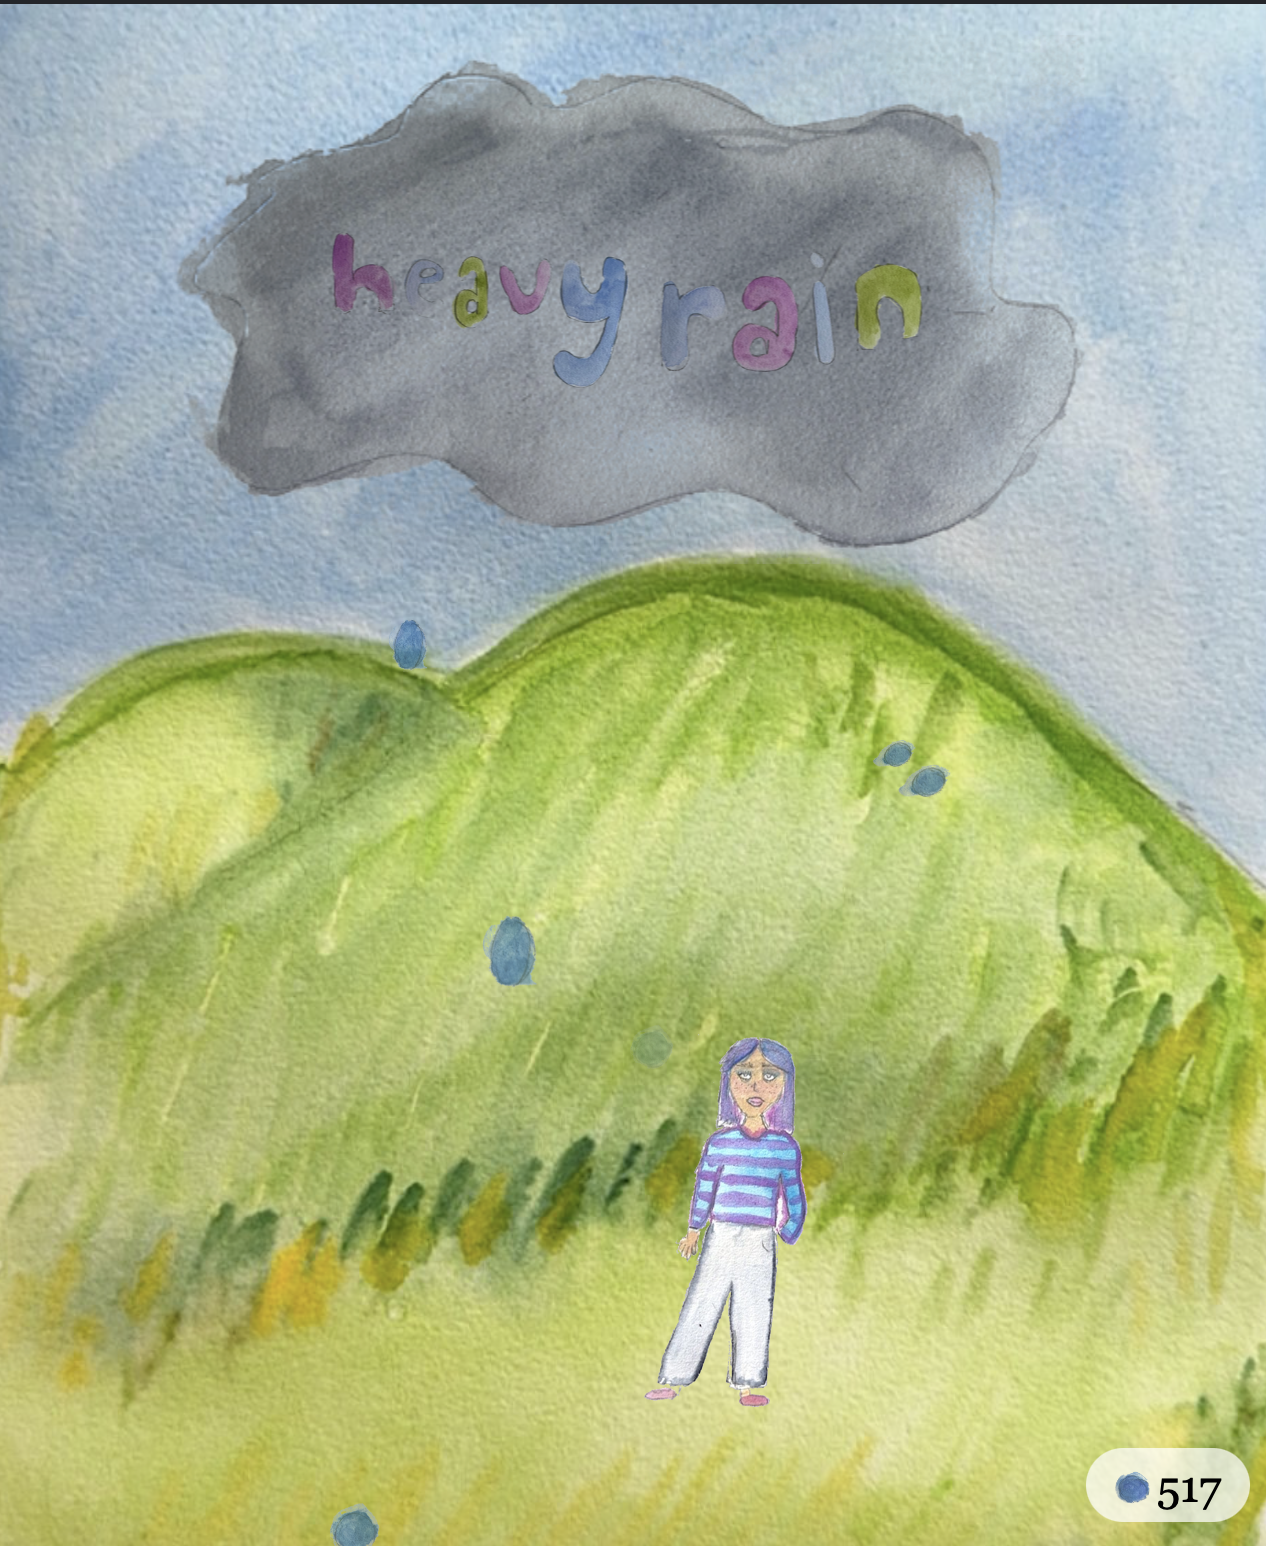
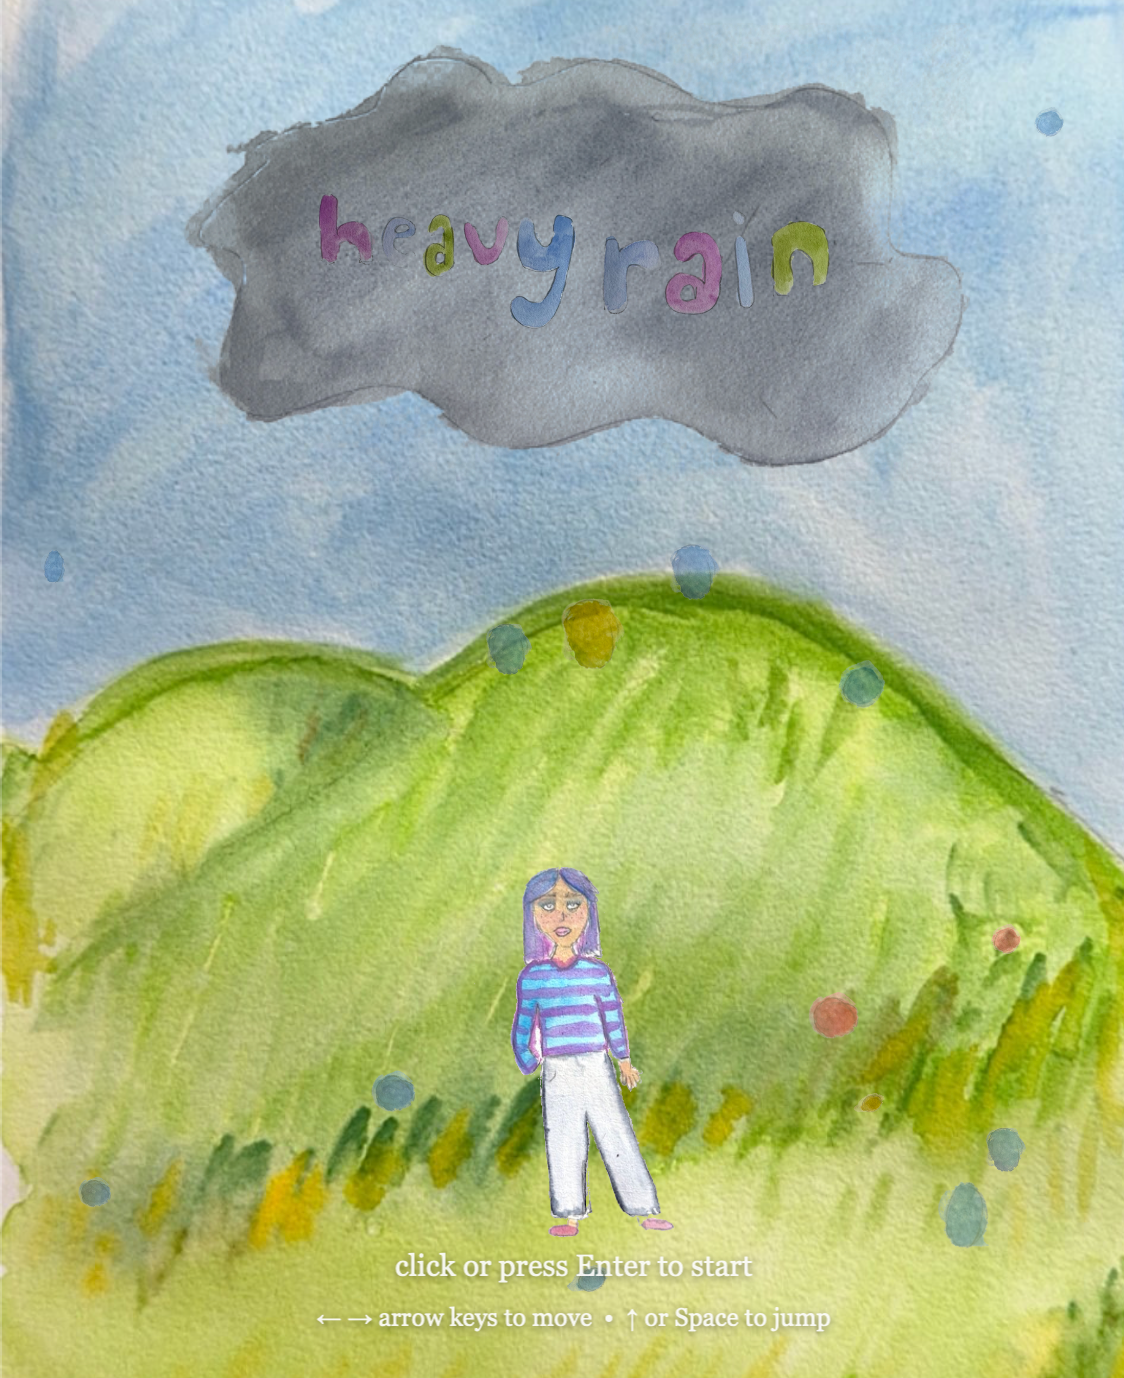
Canvas rain, gold/pink collectibles, performance fix, pink score counter, updated screenshot

diff --git a/heavyrain.html b/heavyrain.html
@@ -14,6 +14,7 @@ img { -webkit-touch-callout: none; pointer-events: none; }
 #title { position: absolute; top: 52%; left: 50%; transform: translate(-50%, -50%); display: flex; flex-direction: row; align-items: center; gap: 2vw; white-space: nowrap; transition: opacity 0.4s ease; }
 #character { position: fixed; width: 100px; height: auto; transform-origin: bottom center; }
 
+#scoreDropImg { filter: hue-rotate(120deg) saturate(1.4) brightness(1.05); }
 #score { position: fixed; bottom: 20px; right: 20px; z-index: 10; font-size: 22px; font-family: Georgia, serif; background: rgba(255,255,255,0.72); padding: 5px 14px; border-radius: 20px; display: none; align-items: center; gap: 6px; }
 #pauseBtn { position: fixed; bottom: 20px; left: 20px; z-index: 10; font-size: 18px; font-family: Georgia, serif; background: rgba(255,255,255,0.72); border: none; padding: 5px 14px; border-radius: 20px; cursor: pointer; display: none; align-items: center; box-shadow: none; }
 #lives { position: fixed; bottom: 20px; left: 70px; z-index: 10; display: none; flex-direction: row; align-items: center; gap: 5px; }
@@ -24,7 +25,6 @@ img { -webkit-touch-callout: none; pointer-events: none; }
 #gameOver p  { font-family: Georgia, serif; color: #fff; font-size: 22px; }
 #playAgain { margin-top: 28px; font-family: Georgia, serif; font-size: 18px; background: rgba(255,255,255,0.82); border: none; padding: 8px 28px; border-radius: 20px; cursor: pointer; }
 #hint { position: fixed; bottom: 105px; left: 50%; transform: translateX(-50%); z-index: 10; font-size: 15px; font-family: Georgia, serif; color: rgba(255,255,255,0.9); text-shadow: 0 1px 4px rgba(0,0,0,0.5); pointer-events: none; text-align: center; line-height: 1.7; white-space: nowrap; }
-#spotify { position: fixed; top: 10px; right: 10px; display: none; transition: all 0.6s ease; z-index: 10; border-radius: 12px; overflow: hidden; box-shadow: 0 4px 16px rgba(0,0,0,0.3); transition: opacity 0.5s; }
 </style>
 </head>
 <body>
@@ -53,9 +53,6 @@ img { -webkit-touch-callout: none; pointer-events: none; }
 <div id="flash"></div>
 <div id="gameOver"><h1>game over</h1><p id="finalScore"></p><p id="bestScore" style="font-size:16px;opacity:0.8;margin-top:4px;"></p><button id="playAgain">play again</button></div>
 <div id="score"><img src="" id="scoreDropImg" style="width:22px;height:auto;opacity:0.85;vertical-align:middle;"><span id="scoreNum" style="vertical-align:middle;">0</span></div>
-<div id="spotify">
-  <iframe id="spotifyFrame" src="https://open.spotify.com/embed/track/1RbQQWnEsE4RJUsIO7nFau?utm_source=generator&theme=1" width="280" height="80" frameborder="0" allowtransparency="true" allow="autoplay; clipboard-write; encrypted-media; fullscreen; picture-in-picture"></iframe>
-  <div style="text-align:center;padding:4px 0 2px;font-family:Georgia,serif;font-size:11px;"><a href="https://accounts.spotify.com/login" target="_blank" style="color:rgba(255,255,255,0.75);text-decoration:underline;">log in to spotify</a> for the full song</div>
 </div>
 <div id="hint"></div>
 
@@ -68,6 +65,7 @@ var charX = 50, charVelX = 0, facingRight = true;
 var pressedLeft = false, pressedRight = false;
 var CHAR_MAX = 0.65, CHAR_ACCEL = 0.07, CHAR_FRIC = 0.80;
 var velY = 0, offsetY = 0, isOnGround = true, jumpsLeft = 2, groundY = 0.84;
+var bgDrops = [], activeDrops = [];
 var GRAVITY = 0.6, JUMP_VEL = -14;
 
 function getGroundYPct(x) { return groundY - Math.sin((x / 100) * Math.PI) * 0.04; }
@@ -100,6 +98,7 @@ function loop() {
   }
   updateChar();
   if (gameActive) updateDrops();
+  updateBgRain();
   requestAnimationFrame(loop);
 }
 
@@ -137,7 +136,7 @@ document.addEventListener('pointerup',     function() { pressedLeft = false; pre
 document.addEventListener('pointercancel', function() { pressedLeft = false; pressedRight = false; });
 
 // --- Game ---
-var gameActive = false, gamePaused = false, gameScore = 0, lives = 3, activeDrops = [], gameStartTime = 0;
+var gameActive = false, gamePaused = false, gameScore = 0, lives = 3, gameStartTime = 0;
 var dropSrcs = [0,1,2,3,4].map(function(i) { return document.getElementById('drop'+i).src; });
 
 document.getElementById('pauseBtn').addEventListener('click', function(e) {
@@ -176,7 +175,6 @@ document.getElementById('playAgain').addEventListener('click', function(e) {
   document.getElementById('lives').style.display = 'none';
   gameActive = false;
   groundY = 0.84;
-  document.getElementById('spotify').style.display = 'none';
   gameScore = 0;
   document.getElementById('scoreNum').textContent = '0';
   activeDrops.forEach(function(d) { d.el.remove(); });
@@ -224,11 +222,6 @@ function startGame() {
   document.getElementById('scoreNum').textContent = '0';
   document.getElementById('gameOver').style.display = 'none';
   document.getElementById('pauseBtn').style.display = 'flex';
-  ambientActive = false;
-  var sp = document.getElementById('spotify');
-  sp.style.display = 'block';
-  var sf = document.getElementById('spotifyFrame');
-  sf.src = 'https://open.spotify.com/embed/track/1RbQQWnEsE4RJUsIO7nFau?utm_source=generator&theme=1&autoplay=1';
   fadeOutTitle();
   animateCloudToTop();
   spawnDrop();
@@ -244,20 +237,27 @@ function scheduleDrop() {
   setTimeout(function() { spawnDrop(); scheduleDrop(); }, base + Math.random() * jitter);
 }
 
+var COLLECT_TYPES = [
+  { filter: 'hue-rotate(190deg) saturate(1.5) brightness(1.15)' },
+  { filter: 'hue-rotate(120deg) saturate(1.4) brightness(1.05)' }
+];
+
 function spawnDrop() {
   var cr   = document.getElementById('cloud').getBoundingClientRect();
   var size = 22 + Math.floor(Math.random() * 16);
+  var sizeFactor = (size - 22) / 16;
+  var speedBoost = Math.min(gameScore * 0.03, 2.5);
+  var spd  = (3.2 - sizeFactor * 1.8) + speedBoost + Math.random() * 0.5;
   var x    = cr.left + cr.width * 0.15 + Math.random() * cr.width * 0.70;
   var y    = cr.bottom - 10;
-  var sizeFactor = (size - 22) / 16;                      // 0=smallest/fastest, 1=largest/slowest
-  var speedBoost = Math.min(gameScore * 0.03, 2.5);        // softer ramp than before
-  var spd = (3.2 - sizeFactor * 1.8) + speedBoost + Math.random() * 0.5;
+  var type = COLLECT_TYPES[Math.floor(Math.random() * COLLECT_TYPES.length)];
   var src  = dropSrcs[Math.floor(Math.random() * dropSrcs.length)];
   var el   = document.createElement('img');
   el.src   = src;
-  el.style.cssText = 'position:fixed;width:' + size + 'px;height:auto;' +
-                     'left:' + (x - size/2) + 'px;top:' + y + 'px;' +
-                     'pointer-events:none;z-index:5;opacity:0.72;';
+  el.style.cssText = 'position:fixed;width:' + size + 'px;height:auto;'
+    + 'left:' + (x - size/2) + 'px;top:' + y + 'px;'
+    + 'pointer-events:none;z-index:5;opacity:0.85;'
+    + 'filter:' + type.filter + ';';
   document.body.appendChild(el);
   activeDrops.push({ el:el, x:x, y:y, spd:spd, size:size });
 }
@@ -328,58 +328,65 @@ function spawnAmbientDrop() {
   setTimeout(spawnAmbientDrop, delay);
 });
 
-// Ambient rain audio (Web Audio API)
-var audioCtx = null, rainGain = null, rainSource = null;
+// Background rain — canvas-based for performance
+var bgCanvas = document.createElement('canvas');
+bgCanvas.style.cssText = 'position:fixed;inset:0;pointer-events:none;z-index:0;';
+document.body.appendChild(bgCanvas);
+var bgCtx = bgCanvas.getContext('2d');
 
-function startRainSound() {
-  try {
-    audioCtx = new (window.AudioContext || window.webkitAudioContext)();
+var dropImages = [0,1,2,3,4].map(function(i) { return document.getElementById('drop'+i); });
 
-    // White noise buffer (2s, looped)
-    var bufLen = audioCtx.sampleRate * 2;
-    var buf    = audioCtx.createBuffer(1, bufLen, audioCtx.sampleRate);
-    var data   = buf.getChannelData(0);
-    for (var i = 0; i < bufLen; i++) data[i] = Math.random() * 2 - 1;
+function resizeBgCanvas() {
+  bgCanvas.width  = window.innerWidth;
+  bgCanvas.height = window.innerHeight;
+}
+resizeBgCanvas();
+window.addEventListener('resize', resizeBgCanvas);
 
-    rainSource = audioCtx.createBufferSource();
-    rainSource.buffer = buf;
-    rainSource.loop   = true;
-
-    // Two filters layered: high-pass removes rumble, low-pass softens hiss
-    var hp = audioCtx.createBiquadFilter();
-    hp.type = 'highpass';  hp.frequency.value = 600;
-
-    var lp = audioCtx.createBiquadFilter();
-    lp.type = 'lowpass';   lp.frequency.value = 4000;
-
-    rainGain = audioCtx.createGain();
-    rainGain.gain.value = 0;
-
-    rainSource.connect(hp);
-    hp.connect(lp);
-    lp.connect(rainGain);
-    rainGain.connect(audioCtx.destination);
-
-    rainSource.start();
-    rainGain.gain.setTargetAtTime(0.12, audioCtx.currentTime, 1.2); // gentle fade-in
-  } catch(e) {}
+function spawnBgDrop() {
+  var size   = 12 + Math.floor(Math.random() * 22);
+  var roll   = Math.random();
+  var filter = !gameActive && roll < 0.1 ? 'hue-rotate(190deg) saturate(1.5) brightness(1.15)'
+             : !gameActive && roll < 0.2 ? 'hue-rotate(120deg) saturate(1.4) brightness(1.05)'
+             : '';
+  bgDrops.push({
+    x:      Math.random() * window.innerWidth,
+    y:      -(size + Math.random() * 80),
+    spd:    0.8 + Math.random() * 5.5,
+    size:   size,
+    opacity: 0.2 + Math.random() * 0.55,
+    imgIdx: Math.floor(Math.random() * dropImages.length),
+    filter: filter
+  });
 }
 
-function updateRainIntensity() {
-  if (!rainGain || !audioCtx || !gameActive) return;
-  var elapsed   = (Date.now() - gameStartTime) / 1000;
-  var intensity = Math.min(0.12 + (elapsed / 120) * 0.33, 0.45);
-  rainGain.gain.setTargetAtTime(intensity, audioCtx.currentTime, 2.0);
+function updateBgRain() {
+  if (!bgCtx) return;
+  bgCtx.clearRect(0, 0, bgCanvas.width, bgCanvas.height);
+  bgDrops = bgDrops.filter(function(d) {
+    d.y += d.spd;
+    if (d.y > bgCanvas.height + 30) return false;
+    var img = dropImages[d.imgIdx];
+    if (!img || !img.complete) return true;
+    bgCtx.save();
+    bgCtx.globalAlpha = d.opacity;
+    if (d.filter) bgCtx.filter = d.filter;
+    var h = d.size * img.naturalHeight / (img.naturalWidth || 1);
+    bgCtx.drawImage(img, d.x - d.size / 2, d.y, d.size, h);
+    bgCtx.restore();
+    return true;
+  });
 }
 
-function stopRainSound() {
-  if (!rainGain || !audioCtx) return;
-  rainGain.gain.setTargetAtTime(0, audioCtx.currentTime, 1.0);
-  setTimeout(function() {
-    try { rainSource.stop(); audioCtx.close(); } catch(e) {}
-    audioCtx = null; rainGain = null; rainSource = null;
-  }, 2500);
+function scheduleBgRain() {
+  var count = gameActive ? 9 : 2;
+  for (var i = 0; i < count; i++) {
+    setTimeout(spawnBgDrop, i * 40 + Math.random() * 60);
+  }
+  setTimeout(scheduleBgRain, gameActive ? 90 + Math.random() * 80 : 400 + Math.random() * 400);
 }
+
+setTimeout(scheduleBgRain, 500);
 
 </script>
 </body>

diff --git a/README.md b/README.md
@@ -1,6 +1,6 @@
 # heavy rain
 
-Catch as many raindrops as you can before you run out of lives.
+A hand-painted browser game. Stand in the rain and catch the coloured drops — but don't miss too many.
 
 **[Play here](https://paigemca.github.io/heavyrain/heavyrain.html)**
 
@@ -8,11 +8,11 @@ Catch as many raindrops as you can before you run out of lives.
 
 ## how to play
 
-Catch raindrops falling from the cloud overhead. You have 3 lives — miss a drop and you lose one. The rain gets heavier over time.
+Blue raindrops fall as atmosphere — ignore them. Catch the **gold and pink drops** before they hit the ground. You have 3 lives. Miss a coloured drop and you lose one. The rain gets heavier and faster the longer you survive.
 
 **Desktop**
 - `←` `→` arrow keys to move
-- `↑` or `Space` to jump
+- `↑` or `Space` to jump (double jump supported)
 - `Enter` or click to start
 
 **Mobile**
